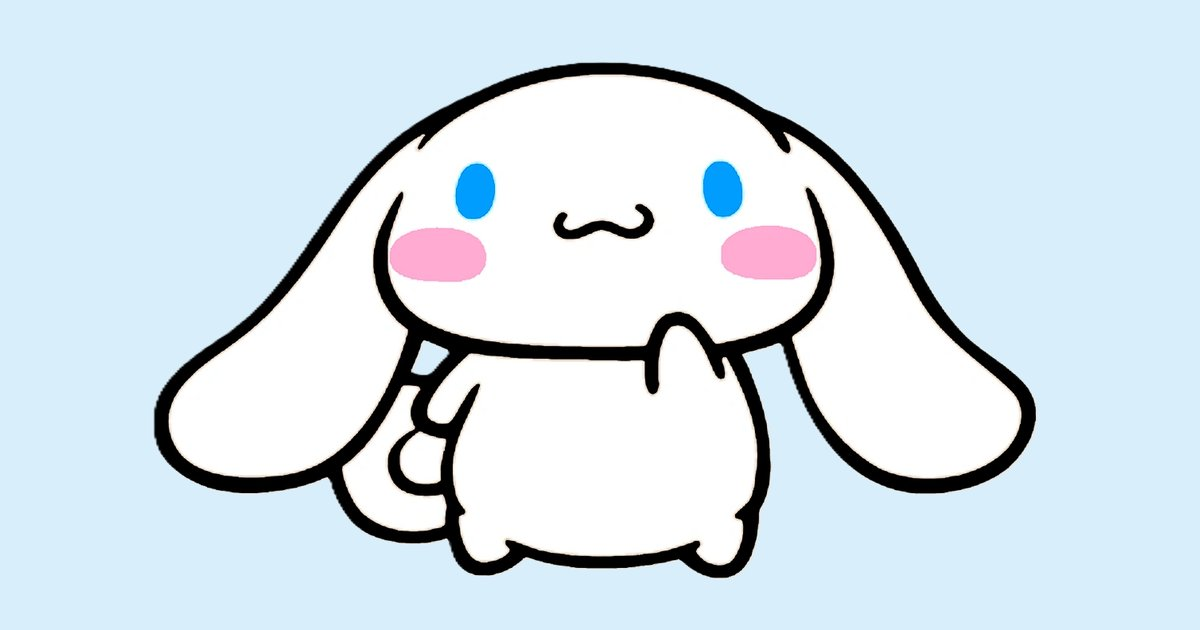
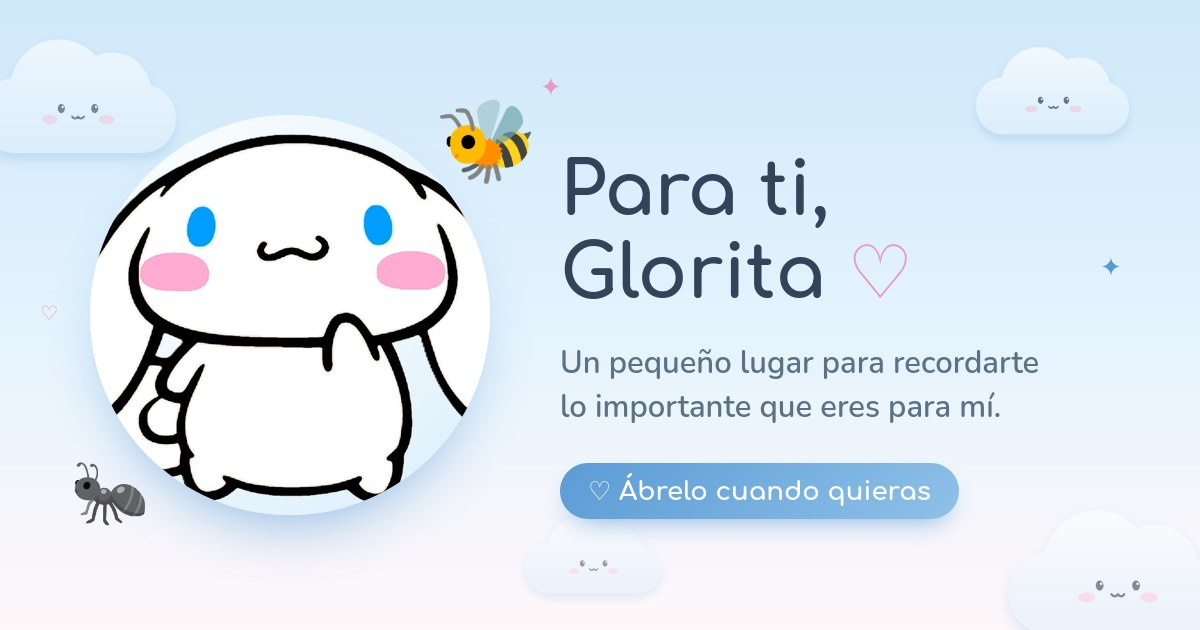
feat: final ampliado y nueva vista previa para WhatsApp
- Despedida linea por linea al tocar Terminar
- Abejita volando, hormiguita y Cinnamonroll despidiendose (version de noche incluida)
- Boton Volver al inicio
- Nueva imagen de vista previa con Cinnamonroll, la abejita y la hormiga
- Fix: el atributo hidden ahora siempre oculta los botones

diff --git a/script.js b/script.js
@@ -250,28 +250,66 @@ Muchisimo.
   const finalMessage = document.getElementById('final-message');
   const finaleLayer = document.getElementById('finale-layer');
 
-  const finaleSymbols = ['♡', '☁', '✦', '☁', '♡', '✦'];
+  const finalLines = finalMessage.querySelectorAll('[data-final-line]');
+  const restartBtn = document.getElementById('restart-btn');
+
+  // de dia: corazones, nubes, la abejita y la hormiguita
+  // de noche: estrellas y lunitas
+  const daySymbols = ['♡', '☁', '✦', '♡', '🐝', '♡', '☁', '🐜'];
+  const nightSymbols = ['✦', '☆', '♡', '🌙', '✦', '♡', '🐝'];
 
   finishBtn.addEventListener('click', () => {
+    finishBtn.hidden = true;
     finalMessage.hidden = false;
-    finishBtn.setAttribute('disabled', 'true');
+    revealFinalLines();
     launchFinale();
   });
+
+  restartBtn.addEventListener('click', backToGate);
+
+  function revealFinalLines() {
+    if (prefersReducedMotion) {
+      finalLines.forEach((line) => line.classList.add('is-visible'));
+      return;
+    }
+    finalLines.forEach((line, i) => {
+      window.setTimeout(() => {
+        line.classList.add('is-visible');
+        line.scrollIntoView({ behavior: 'smooth', block: 'nearest' });
+      }, 400 + i * 1400);
+    });
+  }
 
   function launchFinale() {
     if (prefersReducedMotion) return;
 
-    const total = 24;
-    for (let i = 0; i < total; i++) {
-      window.setTimeout(() => spawnFinaleItem(), i * 120);
+    // tres oleadas de cositas subiendo mientras aparecen las palabras
+    for (let wave = 0; wave < 3; wave++) {
+      for (let i = 0; i < 18; i++) {
+        window.setTimeout(() => spawnFinaleItem(), wave * 3500 + i * 140);
+      }
     }
+
+    // la abejita cruza volando y la hormiguita pasa por abajo
+    window.setTimeout(flyBee, 1800);
+    window.setTimeout(() => {
+      if (!ant.classList.contains('is-walking')) walkAnt();
+    }, 4500);
+  }
+
+  function flyBee() {
+    const bee = document.createElement('span');
+    bee.className = 'finale-bee';
+    bee.textContent = '🐝';
+    finaleLayer.appendChild(bee);
+    bee.addEventListener('animationend', () => bee.remove());
   }
 
   function spawnFinaleItem() {
+    const symbols = isNight() ? nightSymbols : daySymbols;
     const item = document.createElement('span');
     item.className = 'finale-item';
-    item.textContent =
-      finaleSymbols[Math.floor(Math.random() * finaleSymbols.length)];
+    item.textContent = symbols[Math.floor(Math.random() * symbols.length)];
 
     const leftPos = Math.random() * 96; // vw, con margen
     const duration = 4 + Math.random() * 3; // segundos
@@ -280,8 +318,9 @@ Muchisimo.
     item.style.left = leftPos + 'vw';
     item.style.fontSize = size + 'rem';
     item.style.animationDuration = duration + 's';
-    item.style.color =
-      Math.random() > 0.5 ? '#5B9BD5' : '#E79BC1';
+    item.style.color = isNight()
+      ? Math.random() > 0.5 ? '#FDF3C4' : '#F6CFE0'
+      : Math.random() > 0.5 ? '#5B9BD5' : '#E79BC1';
 
     finaleLayer.appendChild(item);
 
@@ -304,7 +343,9 @@ Muchisimo.
   const enterLabel = enterBtn.querySelector('.gate__enter-label');
 
   // Al subir del todo, vuelve la portada con un mensaje extra.
-  topBtn.addEventListener('click', () => {
+  topBtn.addEventListener('click', backToGate);
+
+  function backToGate() {
     if (gate.hidden) {
       const prevY = window.scrollY;
       gate.hidden = false;
@@ -322,5 +363,5 @@ Muchisimo.
       top: 0,
       behavior: prefersReducedMotion ? 'auto' : 'smooth',
     });
-  });
+  }
 })();

diff --git a/style.css b/style.css
@@ -24,6 +24,9 @@
 
 *, *::before, *::after{ box-sizing: border-box; }
 
+/* hidden siempre gana, aunque el elemento tenga display propio */
+[hidden]{ display: none !important; }
+
 html{ scroll-behavior: smooth; }
 
 body{
@@ -748,4 +751,98 @@ html[data-theme="night"] .section--gratitude{
 
 @media (prefers-reduced-motion: reduce){
   .ant{ display: none; }
+}
+
+/* =========================================================
+   Final ampliado (boton "Terminar")
+   ========================================================= */
+.final-message{ margin-top: 0; }
+.final-message p{ margin: 0.5em auto; max-width: 30rem; line-height: 1.6; }
+
+[data-final-line]{
+  opacity: 0;
+  translate: 0 12px;
+  transition: opacity 0.9s ease, translate 0.9s ease;
+}
+[data-final-line].is-visible{ opacity: 1; translate: 0 0; }
+
+.final-message__big{
+  font-size: 1.6rem;
+  font-weight: 700;
+  color: var(--pink-deep);
+  margin-top: 1.2em !important;
+}
+.final-message__sign{
+  font-size: 1rem;
+  color: var(--ink-soft);
+}
+
+.final-goodbye{
+  display: flex;
+  flex-direction: column;
+  align-items: center;
+  gap: 0.6rem;
+  margin: 2.5rem auto 1.5rem;
+}
+.final-goodbye__cinna{
+  width: 110px;
+  height: 110px;
+  border-radius: 50%;
+  overflow: hidden;
+  background: radial-gradient(circle at 35% 30%, #fff, var(--sky-soft));
+  box-shadow: 0 16px 34px -18px rgba(91,155,213,0.7);
+}
+.final-goodbye.is-visible .final-goodbye__cinna{ animation: wave-hop 1.6s ease-in-out 3; }
+.final-goodbye__cinna img{ width: 100%; height: 100%; object-fit: cover; }
+html[data-theme="night"] .final-goodbye__cinna img{ filter: brightness(0.82) saturate(0.85); }
+
+@keyframes wave-hop{
+  0%, 100%{ transform: translateY(0) rotate(0); }
+  25%{ transform: translateY(-10px) rotate(-6deg); }
+  50%{ transform: translateY(0) rotate(0); }
+  75%{ transform: translateY(-6px) rotate(6deg); }
+}
+
+.final-goodbye__bubble{
+  position: relative;
+  margin: 0.4rem 0 0 !important;
+  padding: 0.6rem 1.1rem;
+  border-radius: 16px;
+  background: #fff;
+  color: var(--ink-on-light);
+  font-size: 1rem !important;
+  font-weight: 700;
+  box-shadow: 0 10px 24px -14px rgba(51,68,90,0.45);
+}
+.final-goodbye__bubble::before{
+  content: "";
+  position: absolute;
+  top: -7px;
+  left: 50%;
+  width: 14px;
+  height: 14px;
+  background: #fff;
+  transform: translateX(-50%) rotate(45deg);
+  border-radius: 3px;
+}
+
+.final-restart{ margin-top: 0.5rem; }
+
+/* la abejita cruzando la pantalla en zigzag (de derecha a izquierda,
+   porque el emoji mira hacia la izquierda) */
+.finale-bee{
+  position: absolute;
+  top: 35%;
+  left: 100%;
+  font-size: 2rem;
+  animation: bee-fly 7s linear forwards;
+}
+@keyframes bee-fly{
+  0%  { translate: 0 0;             rotate: -8deg; }
+  15% { translate: -18vw -40px;     rotate: 8deg; }
+  30% { translate: -36vw 20px;      rotate: -8deg; }
+  45% { translate: -54vw -50px;     rotate: 8deg; }
+  60% { translate: -72vw 10px;      rotate: -8deg; }
+  75% { translate: -90vw -30px;     rotate: 8deg; }
+  100%{ translate: calc(-100vw - 6rem) 0; rotate: -8deg; }
 }

diff --git a/index.html b/index.html
@@ -12,7 +12,8 @@
 <meta property="og:title" content="Para ti, Glorita ♡">
 <meta property="og:description" content="Un pequeño lugar para recordarte lo importante que eres para mí.">
 <meta property="og:url" content="https://shenao17.github.io/Glory/">
-<meta property="og:image" content="https://shenao17.github.io/Glory/assets/og-image.jpg">
+<meta property="og:image" content="https://shenao17.github.io/Glory/assets/og-image.jpg?v=2">
+<meta property="og:image:alt" content="Cinnamonroll con una abejita y una hormiguita: Para ti, Glorita ♡">
 <meta property="og:image:width" content="1200">
 <meta property="og:image:height" content="630">
 <meta name="twitter:card" content="summary_large_image">
@@ -220,10 +221,27 @@
   <section class="section section--final" data-reveal>
     <div class="section__inner">
       <button id="finish-btn" class="btn btn--primary" type="button">♡ Terminar</button>
+      <!-- las lineas aparecen una por una al tocar "Terminar" -->
       <div id="final-message" class="final-message" hidden>
-        <p>Bueno...</p>
-        <p>eso era todo.</p>
-        <p>Por ahora. 👉👈</p>
+        <p data-final-line>Bueno...</p>
+        <p data-final-line>eso era todo.</p>
+        <p data-final-line>Gracias por llegar hasta aquí, Glorita.</p>
+        <p data-final-line>Por la hormiguita 🐜, por la abejita de papel 🐝<br>y por haber estado ahí cuando más lo necesitaba.</p>
+        <p data-final-line>Esta página se queda aquí, siempre,<br>para cuando quieras volver.</p>
+        <p data-final-line class="final-message__big">Por ahora. 👉👈</p>
+        <p data-final-line class="final-message__sign">— Sebas ♡</p>
+
+        <div class="final-goodbye" data-final-line>
+          <div class="final-goodbye__cinna" aria-hidden="true">
+            <img src="assets/cinnamonroll-big.png" alt="">
+          </div>
+          <p class="final-goodbye__bubble">
+            <span class="day-only">¡Bye bye, Glorita! Vuelve pronto ♡</span>
+            <span class="night-only">zzz... buenas noches, Glorita ♡</span>
+          </p>
+        </div>
+
+        <button id="restart-btn" class="btn btn--secondary final-restart" type="button" data-final-line>♡ Volver al inicio</button>
       </div>
     </div>
   </section>

diff --git a/README.md b/README.md
@@ -95,6 +95,14 @@ Lo importante es que fue hecha con mucho cariño. ♡
 
 ## 📜 Changelog
 
+### v1.6 — Un final más bonito
+**21 de noviembre de 2026**
+
+- El botón "Terminar" ahora muestra un mensaje de despedida línea por línea.
+- Una abejita cruza volando, pasa la hormiguita, y Cinnamonroll se despide (o da las buenas noches si es de noche).
+- Botón "Volver al inicio" al final.
+- Nueva imagen de vista previa para WhatsApp: Cinnamonroll, la abejita y la hormiga.
+
 ### v1.5 — Noche, abejita y hormiguita
 **21 de noviembre de 2026**
 
